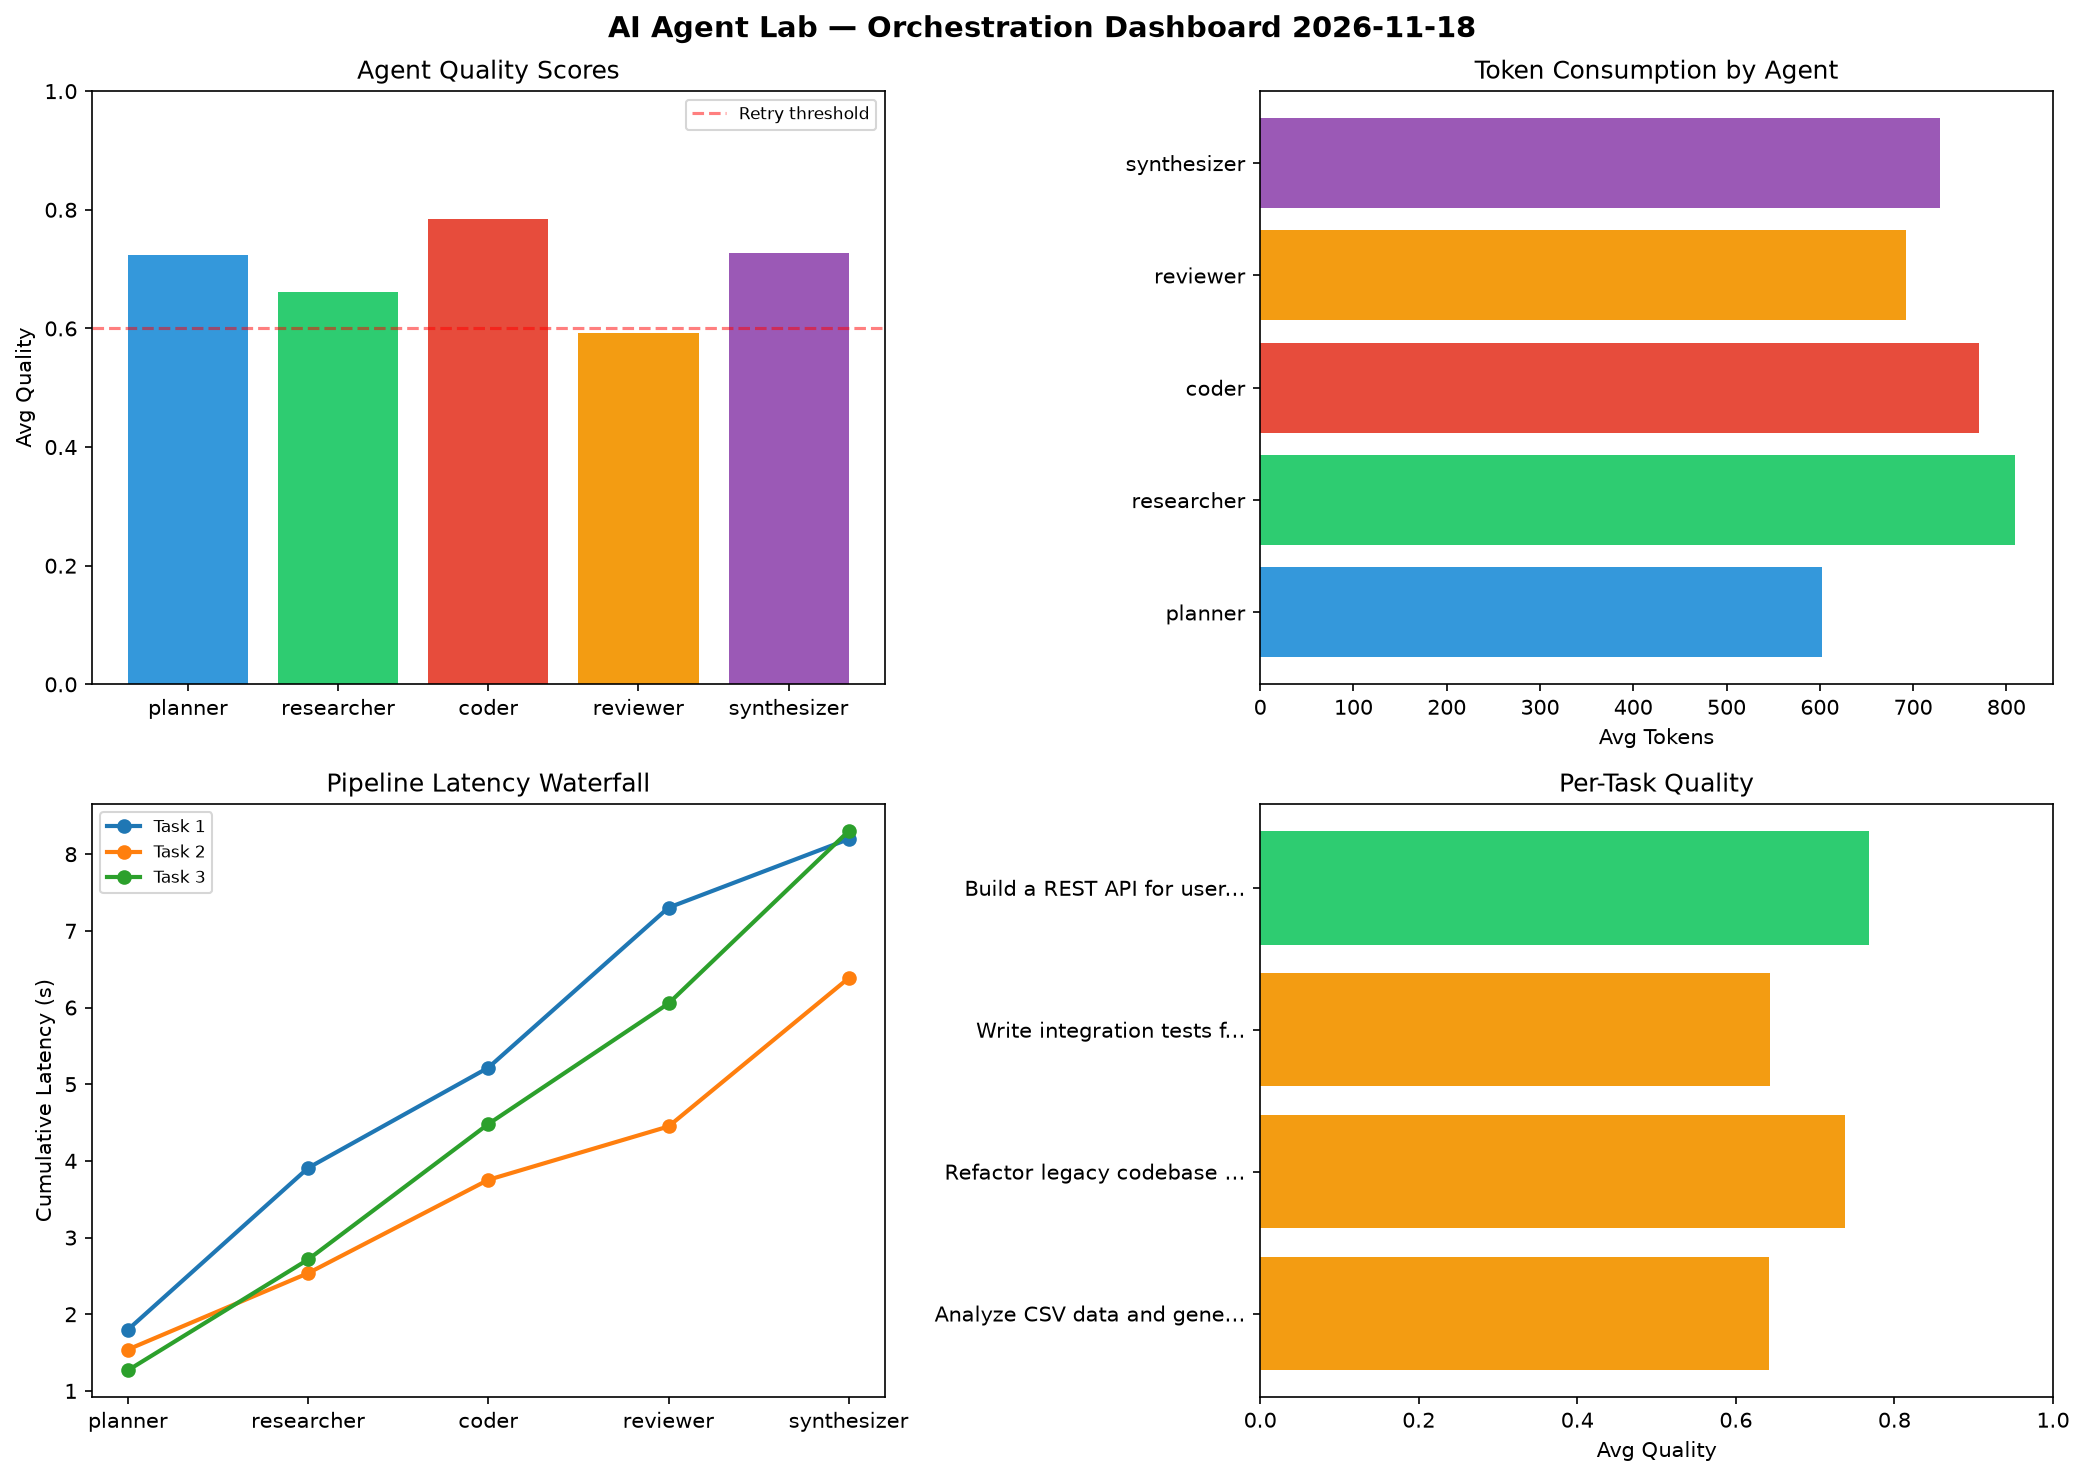
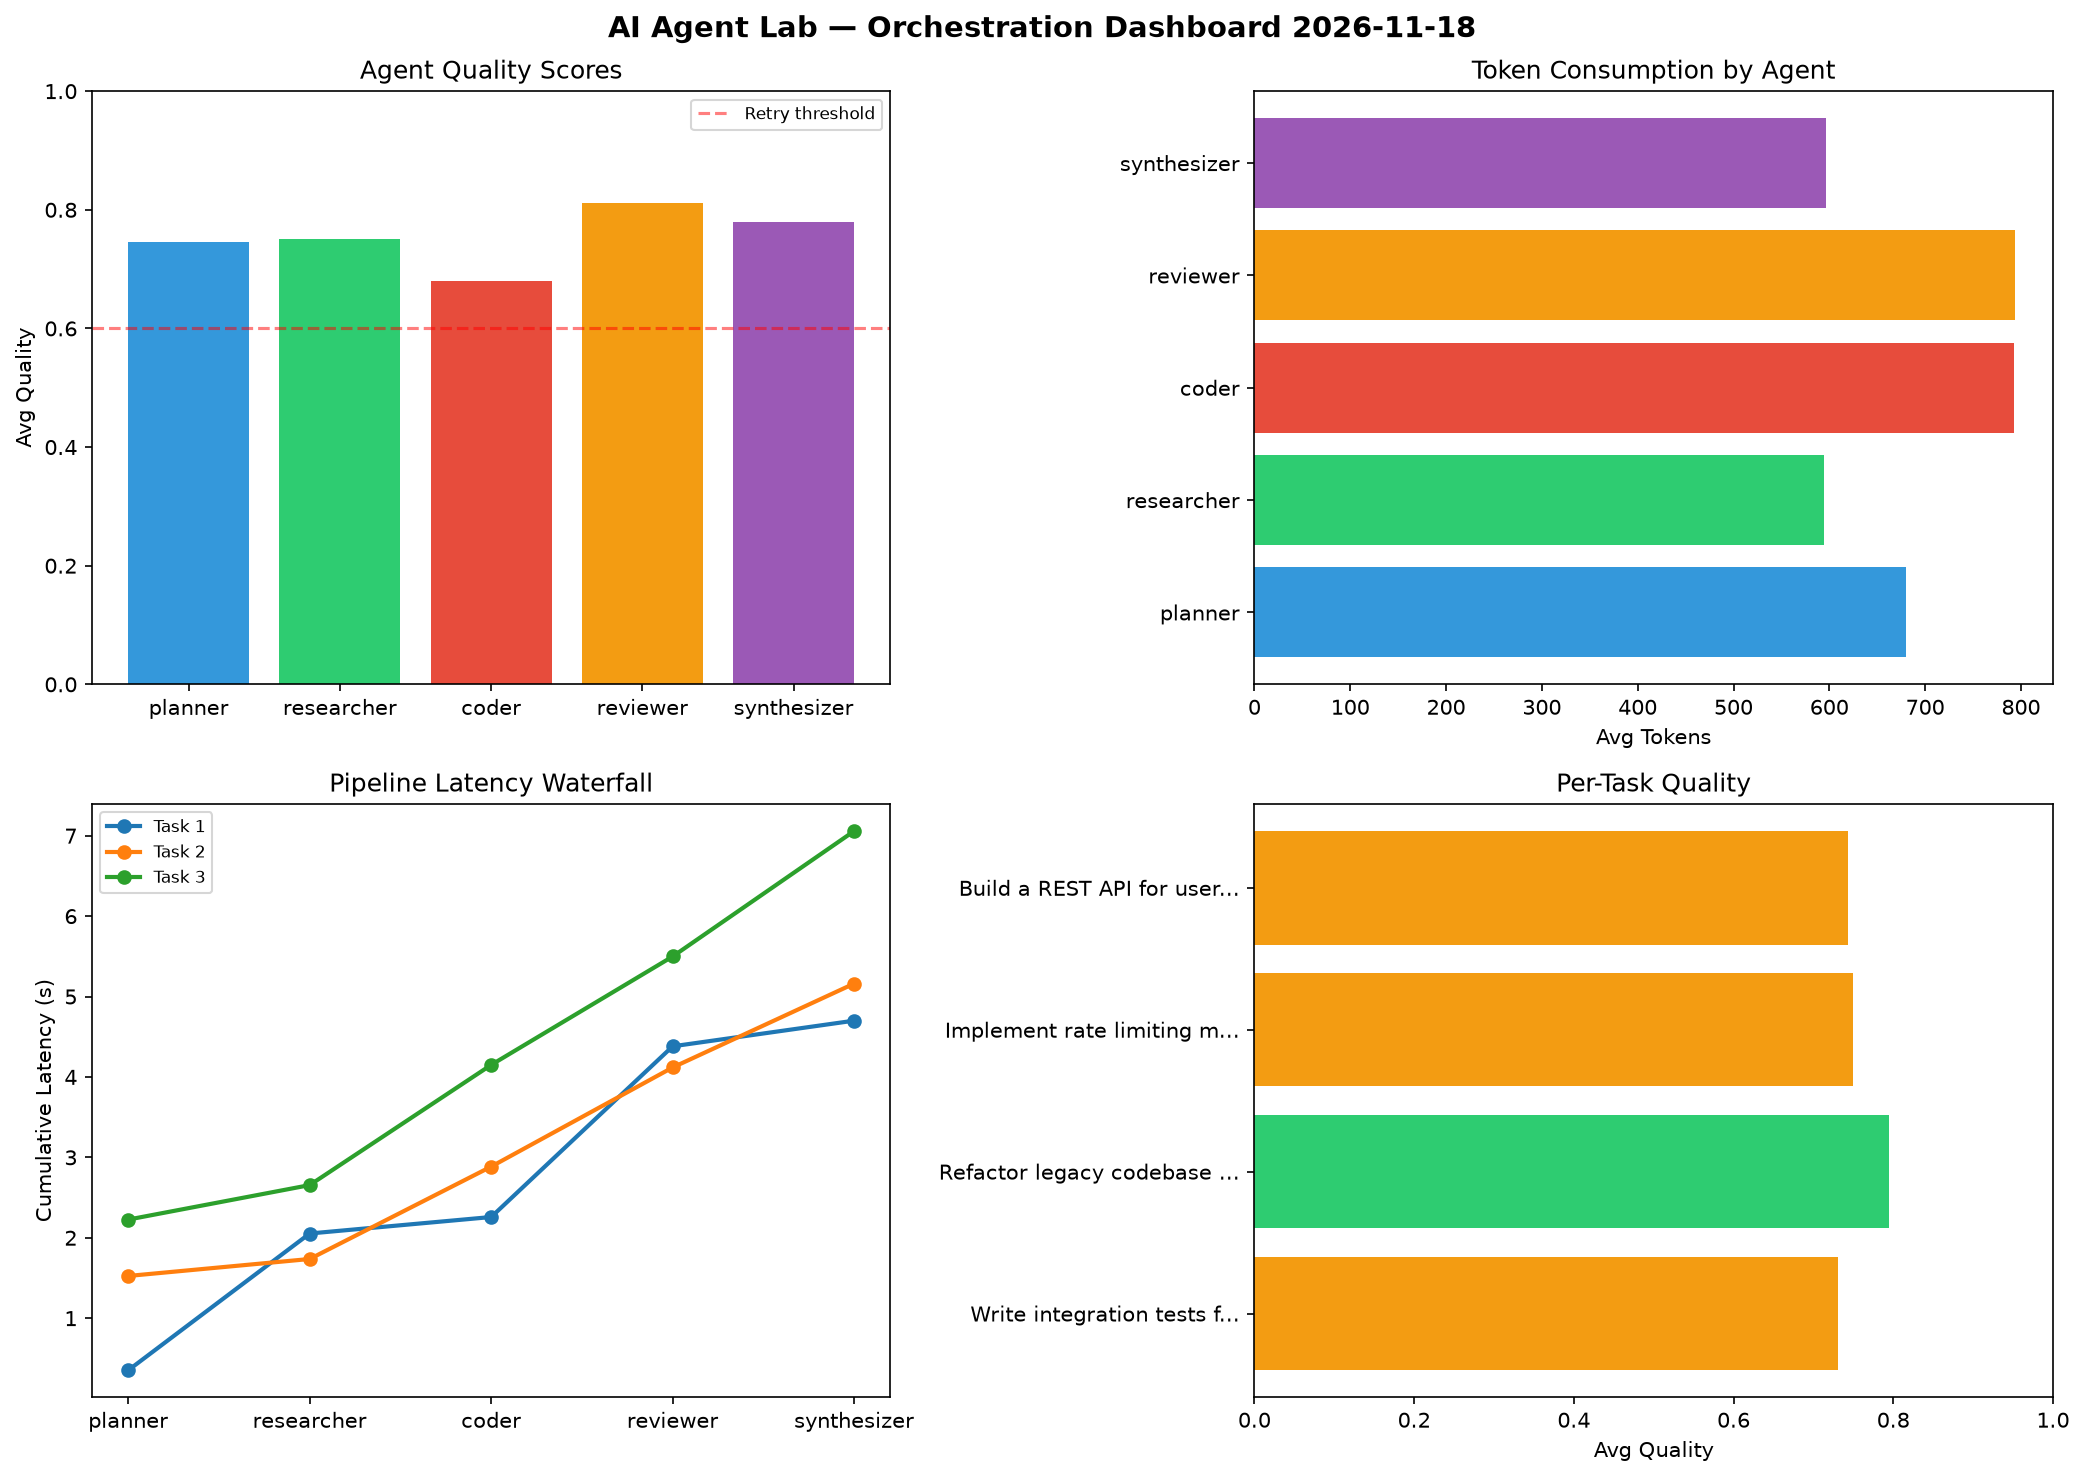
ai-agent-lab: orchestration run 2026-11-18T22:01

diff --git a/logs/2026-11-18.md b/logs/2026-11-18.md
@@ -1,6 +1,6 @@
 # AI Agent Lab — Orchestration Report 2026-11-18
 
-**Run ID:** `71951382ac` | **Tasks:** 4 | **Avg Quality:** 0.698
+**Run ID:** `93a99a6872` | **Tasks:** 4 | **Avg Quality:** 0.754
 
 ![Dashboard](2026-11-18_dashboard.png)
 
@@ -8,52 +8,52 @@
 
 | Metric | Value |
 |--------|-------|
-| avg_latency | 7.915 |
-| total_tokens | 14418 |
-| avg_quality | 0.698 |
+| avg_latency | 5.998 |
+| total_tokens | 13826 |
+| avg_quality | 0.754 |
 
 ## Delta vs Yesterday
 
 | Metric | Today | Yesterday | Change |
 |--------|-------|-----------|--------|
-| avg_latency | 7.915 | 6.106 | 📈 29.6% |
-| total_tokens | 14418 | 13400 | 📈 7.6% |
-| avg_quality | 0.698 | 0.814 | 📉 -14.3% |
+| avg_latency | 5.998 | 6.106 | 📉 -1.8% |
+| total_tokens | 13826 | 13400 | 📈 3.2% |
+| avg_quality | 0.754 | 0.814 | 📉 -7.4% |
 
 ## Pipeline Results
-
-### Analyze CSV data and generate statistical summary
-| Agent | Quality | Latency | Tokens | Status |
-|-------|---------|---------|--------|--------|
-| planner | 0.538 | 1.799s | 489 | needs_retry |
-| researcher | 0.66 | 2.109s | 891 | success |
-| coder | 0.758 | 1.308s | 593 | success |
-| reviewer | 0.503 | 2.087s | 934 | needs_retry |
-| synthesizer | 0.75 | 0.894s | 401 | success |
-
-### Refactor legacy codebase to use dependency injection
-| Agent | Quality | Latency | Tokens | Status |
-|-------|---------|---------|--------|--------|
-| planner | 0.955 | 1.54s | 513 | success |
-| researcher | 0.584 | 0.996s | 748 | needs_retry |
-| coder | 0.97 | 1.217s | 806 | success |
-| reviewer | 0.626 | 0.696s | 483 | success |
-| synthesizer | 0.557 | 1.935s | 613 | needs_retry |
 
 ### Write integration tests for payment processing module
 | Agent | Quality | Latency | Tokens | Status |
 |-------|---------|---------|--------|--------|
-| planner | 0.757 | 1.269s | 252 | success |
-| researcher | 0.612 | 1.445s | 979 | success |
-| coder | 0.529 | 1.767s | 761 | needs_retry |
-| reviewer | 0.524 | 1.572s | 930 | needs_retry |
-| synthesizer | 0.794 | 2.249s | 918 | success |
+| planner | 0.842 | 0.352s | 778 | success |
+| researcher | 0.743 | 1.701s | 713 | success |
+| coder | 0.593 | 0.205s | 671 | needs_retry |
+| reviewer | 0.861 | 2.123s | 728 | success |
+| synthesizer | 0.616 | 0.319s | 935 | success |
+
+### Refactor legacy codebase to use dependency injection
+| Agent | Quality | Latency | Tokens | Status |
+|-------|---------|---------|--------|--------|
+| planner | 0.889 | 1.525s | 942 | success |
+| researcher | 0.601 | 0.211s | 453 | success |
+| coder | 0.753 | 1.149s | 1096 | success |
+| reviewer | 0.94 | 1.233s | 516 | success |
+| synthesizer | 0.785 | 1.043s | 556 | success |
+
+### Implement rate limiting middleware
+| Agent | Quality | Latency | Tokens | Status |
+|-------|---------|---------|--------|--------|
+| planner | 0.616 | 2.226s | 607 | success |
+| researcher | 0.92 | 0.429s | 762 | success |
+| coder | 0.565 | 1.495s | 369 | needs_retry |
+| reviewer | 0.693 | 1.348s | 1075 | success |
+| synthesizer | 0.951 | 1.56s | 389 | success |
 
 ### Build a REST API for user authentication
 | Agent | Quality | Latency | Tokens | Status |
 |-------|---------|---------|--------|--------|
-| planner | 0.643 | 0.719s | 1156 | success |
-| researcher | 0.787 | 2.194s | 620 | success |
-| coder | 0.883 | 1.173s | 924 | success |
-| reviewer | 0.716 | 2.458s | 422 | success |
-| synthesizer | 0.811 | 2.235s | 985 | success |
+| planner | 0.638 | 1.973s | 394 | success |
+| researcher | 0.742 | 0.722s | 448 | success |
+| coder | 0.812 | 0.189s | 1034 | success |
+| reviewer | 0.755 | 2.401s | 856 | success |
+| synthesizer | 0.769 | 1.79s | 504 | success |
